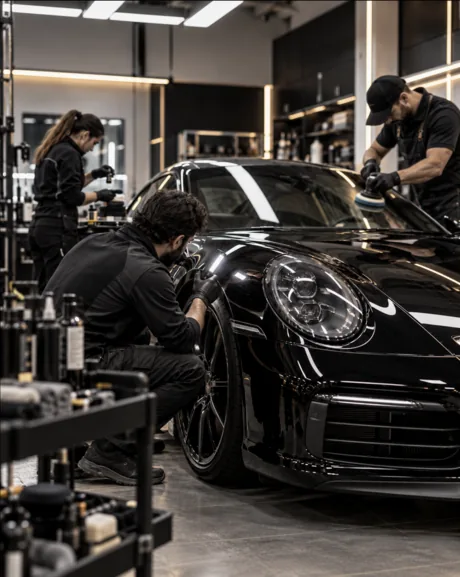
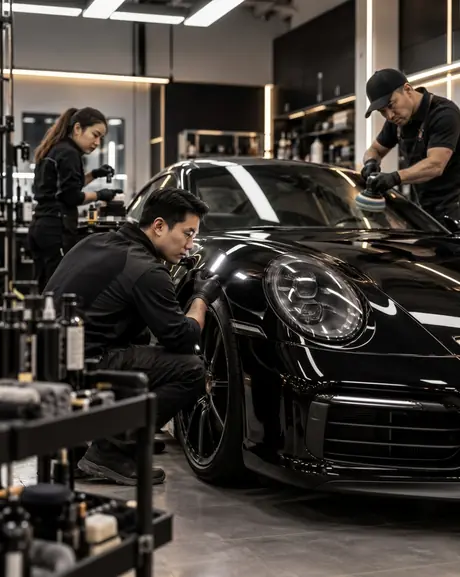
Equipe : nouvelle photo fournie par le client
Source conservee dans _src/sources/ (JPEG 1276x1600), WebP 460 a 1200
sans traitement colorimetrique, dimensions intrinseques a jour.

Claude-Session: https://claude.ai/code/session_01TuuVw1udVRNUbe12UXwCgW

diff --git a/index.html b/index.html
@@ -286,14 +286,14 @@
       </p>
 
       <figure class="story__plate" data-reveal>
-        <img src="/assets/img/car-detailing-team-singapore-900.webp?v=ab275f119f"
-             srcset="/assets/img/car-detailing-team-singapore-460.webp?v=360cbdebcb 460w,
-                     /assets/img/car-detailing-team-singapore-620.webp?v=289fccd50b 620w,
-                     /assets/img/car-detailing-team-singapore-900.webp?v=ab275f119f 900w,
-                     /assets/img/car-detailing-team-singapore-1200.webp?v=8e4c618c92 1200w"
+        <img src="/assets/img/car-detailing-team-singapore-900.webp?v=84a754cf2f"
+             srcset="/assets/img/car-detailing-team-singapore-460.webp?v=d889193694 460w,
+                     /assets/img/car-detailing-team-singapore-620.webp?v=475fa1c6a4 620w,
+                     /assets/img/car-detailing-team-singapore-900.webp?v=84a754cf2f 900w,
+                     /assets/img/car-detailing-team-singapore-1200.webp?v=5fb983e764 1200w"
              sizes="(min-width:920px) 44vw, 100vw"
              alt="Car Armour detailing team machine polishing a black Porsche 911 before ceramic coating in Singapore"
-             width="1514" height="1898" loading="lazy" decoding="async">
+             width="1276" height="1600" loading="lazy" decoding="async">
       </figure>
 
       <h3 data-reveal>Rare skills at your service</h3>

diff --git a/_src/pages/home.html b/_src/pages/home.html
@@ -191,7 +191,7 @@
                      /assets/img/car-detailing-team-singapore-1200.webp 1200w"
              sizes="(min-width:920px) 44vw, 100vw"
              alt="Car Armour detailing team machine polishing a black Porsche 911 before ceramic coating in Singapore"
-             width="1514" height="1898" loading="lazy" decoding="async">
+             width="1276" height="1600" loading="lazy" decoding="async">
       </figure>
 
       <h3 data-reveal>Rare skills at your service</h3>
